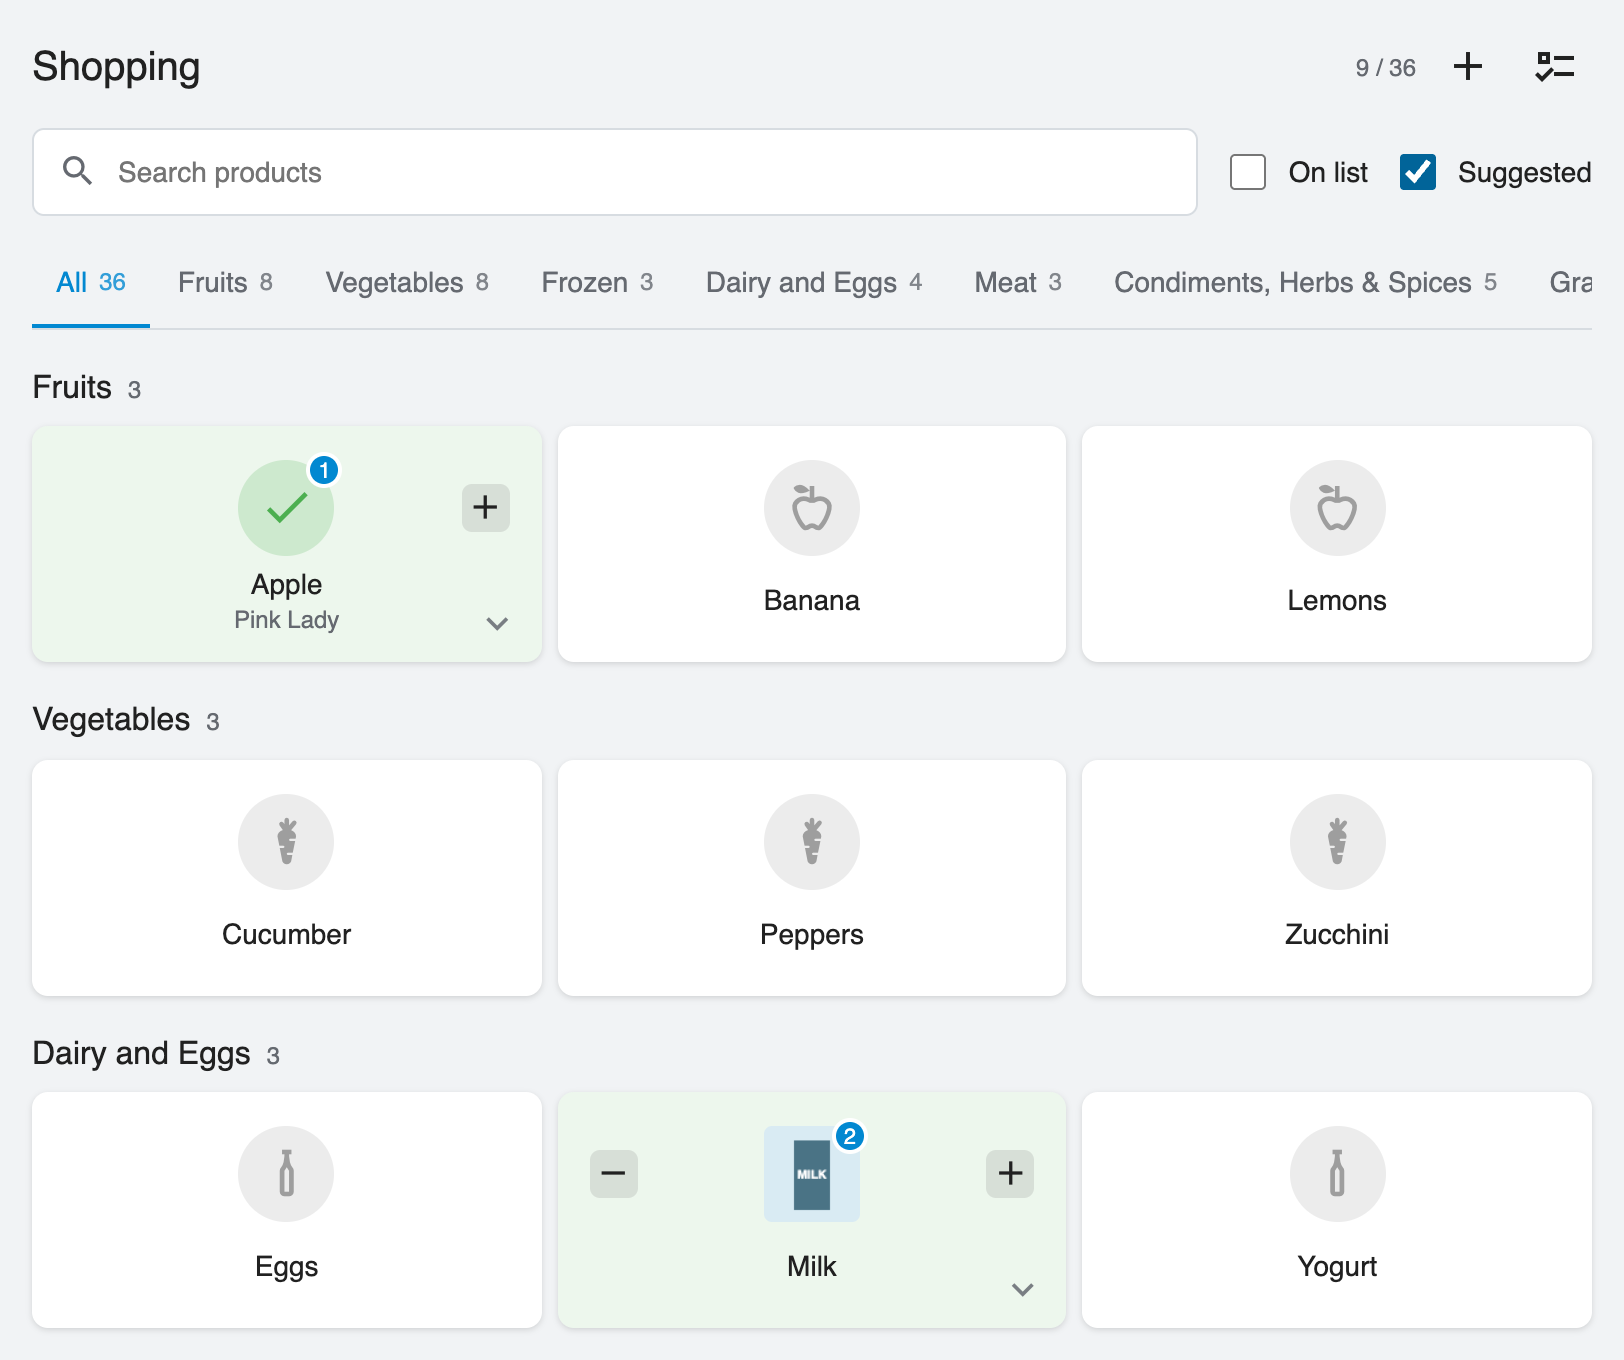
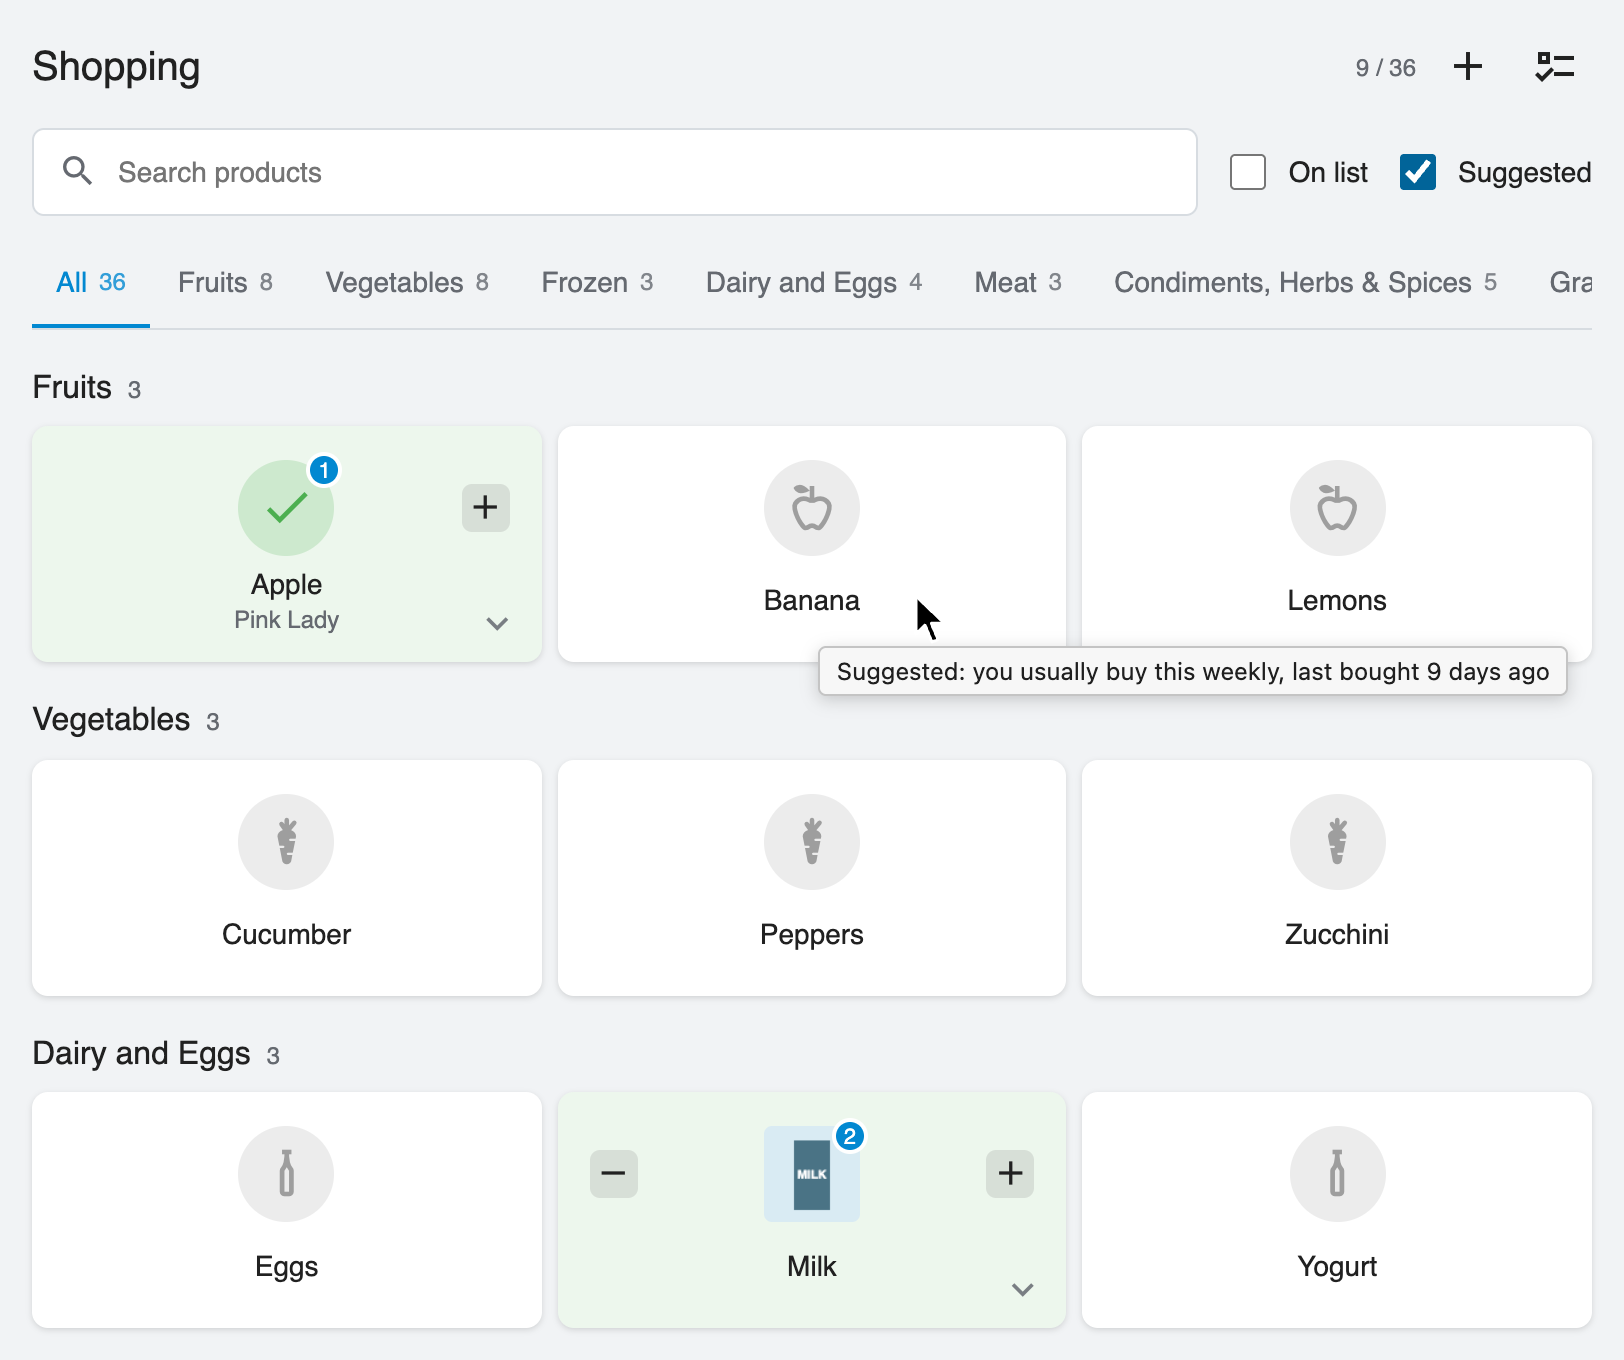
Show the suggestion tooltip in the screenshot

Changed region(s): [[0.4926, 0.4324, 0.9544, 0.525]]

diff --git a/docs/usage.md b/docs/usage.md
@@ -92,7 +92,7 @@ Category tabs, search, and **On list** filter the product tiles. Search ignores 
 
 **Suggested** appears when the catalog sensor comes from [Shopping List Catalog](https://github.com/eyalgal/ha-shopping-list-catalog) with purchase history turned on. It shows products you usually buy around now, based on when you checked them off before, including ones already on the list. Hover a suggested tile to see why it was picked. Suggested and On list are alternatives, so turning one on turns the other off. Hide it with `show_suggested: false`.
 
-<img src="images/catalog-suggested.png" alt="Catalog with the Suggested filter on, showing nine usually bought products across Fruits, Vegetables, and Dairy and Eggs, with Apple and Milk already on the list" width="812"/>
+<img src="images/catalog-suggested.png" alt="Catalog with the Suggested filter on, showing nine usually bought products across Fruits, Vegetables, and Dairy and Eggs, with Apple and Milk already on the list and a tooltip on Banana explaining it is usually bought weekly and was last bought 9 days ago" width="812"/>
 
 The visual editor's **Display** section selects category subsets and independently shows or hides controls. Fixed columns, header visibility, and shared product defaults are covered in the [configuration reference](configuration.md#catalog-options).
 

diff --git a/README.md b/README.md
@@ -85,7 +85,7 @@ Compact tiles keep the main item and its variants accessible. Screenshots use de
 
 ### Suggested Products
 
-<img src="https://raw.githubusercontent.com/eyalgal/ha-shopping-list-card/main/docs/images/catalog-suggested.png" alt="Catalog with the Suggested filter on, showing nine usually bought products across Fruits, Vegetables, and Dairy and Eggs, with Apple and Milk already on the list" width="812"/>
+<img src="https://raw.githubusercontent.com/eyalgal/ha-shopping-list-card/main/docs/images/catalog-suggested.png" alt="Catalog with the Suggested filter on, showing nine usually bought products across Fruits, Vegetables, and Dairy and Eggs, with Apple and Milk already on the list and a tooltip on Banana explaining it is usually bought weekly and was last bought 9 days ago" width="812"/>
 
 With Shopping List Catalog, **Suggested** shows what you usually buy around now, learned from the items you check off.
 
